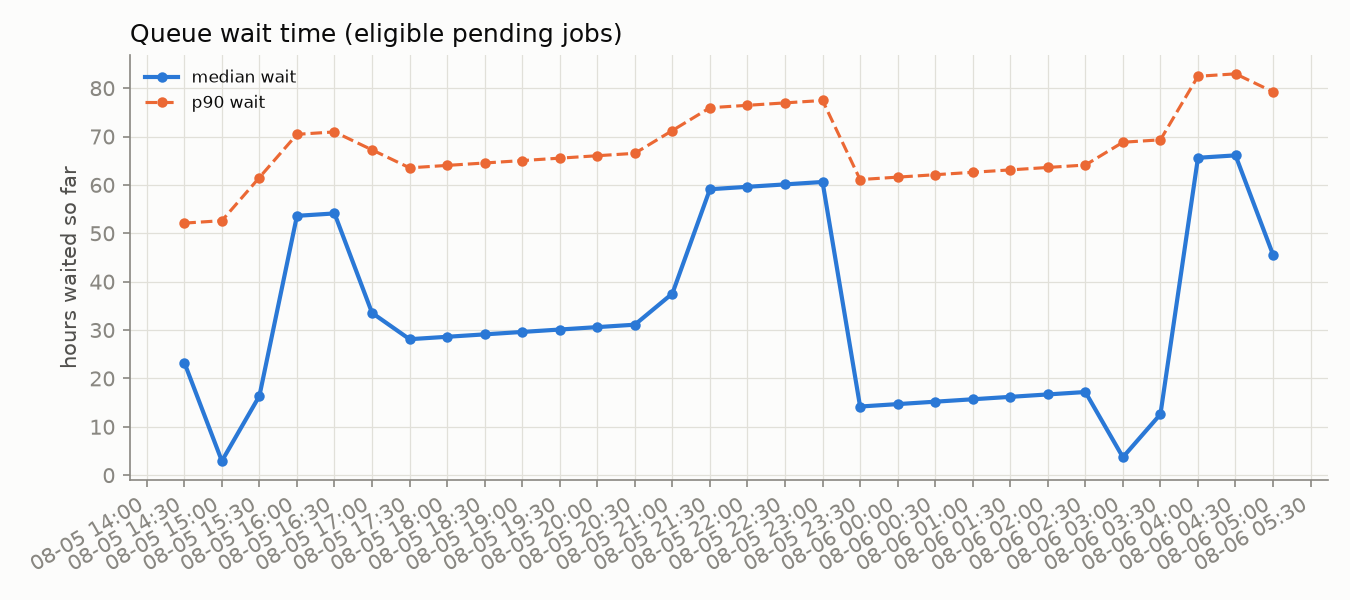
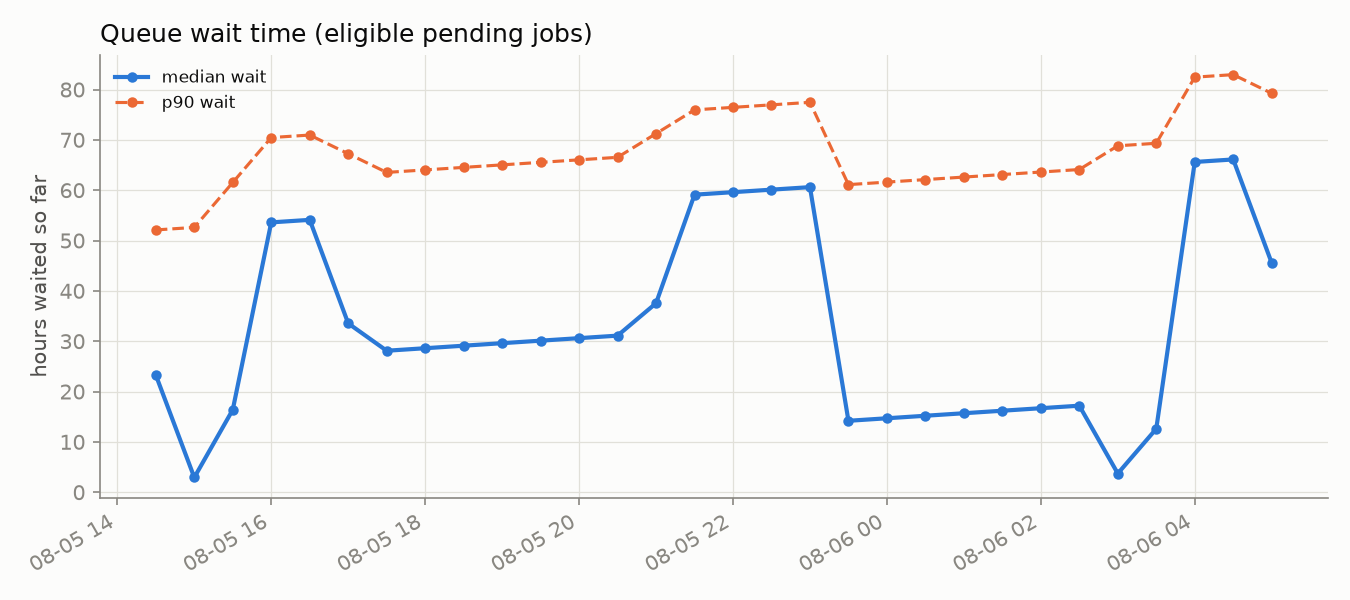
Expand recommendations, drop the fixed 30-min tick locator on queue_wait
Recommendations now explain the mechanism and give a data-grounded
escalation candidate instead of one-line pointers to the commands.
queue_wait.png used an explicit 30-min MinuteLocator that packed a tick
per sample; drop it so matplotlib's default date locator picks spacing
the same way the other three charts already do.

diff --git a/render_readme.py b/render_readme.py
@@ -17,7 +17,6 @@ from pathlib import Path
 import matplotlib
 matplotlib.use("Agg")
 import matplotlib.pyplot as plt
-import matplotlib.dates as mdates
 import matplotlib.patches as mpatches
 
 DIR = Path(__file__).resolve().parent
@@ -345,6 +344,16 @@ def main():
         })
     table_rows.sort(key=lambda r: (-r["gpu_hours"]))
 
+    # ---- worst-case escalation candidate: biggest allocation sitting on the
+    # lowest utilization, gated on a minimum GPU-hour floor so a user with a
+    # couple of idle hours doesn't outrank someone hoarding hundreds. ----
+    ESCALATION_MIN_GPU_HOURS = 50.0
+    escalation_candidates = [r for r in table_rows
+                              if r["util_pct"] is not None
+                              and r["gpu_hours"] >= ESCALATION_MIN_GPU_HOURS]
+    worst_offender = (min(escalation_candidates, key=lambda r: r["util_pct"])
+                       if escalation_candidates else None)
+
     # ================= chart 1 & 2: CPU / GPU allocation over time, by lab -
     #                    standardized: same title pattern, same "GPUs"/"CPUs"
     #                    axis convention, same cluster-capacity dashed
@@ -426,8 +435,6 @@ def main():
         ax.set_xlim(lo - pad, hi + pad)
         ax.set_title("Queue wait time (eligible pending jobs)", loc="left")
         ax.set_ylabel("hours waited so far")
-        ax.xaxis.set_major_locator(mdates.MinuteLocator(byminute=[0, 30], tz=x4[0].tzinfo))
-        ax.xaxis.set_major_formatter(mdates.DateFormatter("%m-%d %H:%M", tz=x4[0].tzinfo))
         fig.autofmt_xdate()
         ax.legend(frameon=False, fontsize=8)
         fig.tight_layout()
@@ -575,14 +582,52 @@ def main():
 
     lines.append("## Recommendations")
     lines.append("")
-    lines.append("1. **Weight GPU usage in fairshare:** "
+    lines.append("1. **Weight GPU usage in fairshare.** `TRESBillingWeights` and "
+                 "`PriorityWeightTRES` are both unset right now, so Slurm's fairshare "
+                 "score only sees CPU-seconds - a job holding 4 idle L40S GPUs costs "
+                 "nothing in priority as long as it isn't also holding CPUs. That's the "
+                 "exact failure mode the scatter above is built to catch (upper-left: low "
+                 "CPU usage, high GPU usage). Fix: "
                  "`scontrol update partition=main TRESBillingWeights=CPU=1.0,GRES/gpu=<weight>` "
-                 "(or set `PriorityWeightTRES`), then restart `slurmctld`. Weight value is a "
-                 "policy call.")
+                 "(or set `PriorityWeightTRES` cluster-wide), then `scontrol reconfigure` - "
+                 "a full `slurmctld` restart also works but drops in-flight priority state. "
+                 "A reasonable starting point for `<weight>` is the CPUs-per-GPU ratio on a "
+                 "GPU node (128 CPUs / 4 GPUs = 32), so one GPU costs as much fairshare as "
+                 f"the CPU share it displaces; tune from there against next week's headline "
+                 f"numbers ({pct_gpu_alloc:.1f}% allocated, {pct_util_when_alloc:.1f}% "
+                 "utilized when allocated, as of this snapshot). The weight value itself is "
+                 "a policy call - loop in whoever owns cluster allocation policy before "
+                 "changing it.")
     lines.append("")
-    lines.append("2. **Escalate on sustained low utilization** (see table and scatter "
-                 "above): reminder, then a fairshare/QOS penalty. Needs a threshold and "
-                 "grace period decided first.")
+    esc_line = ("2. **Escalate on sustained low utilization** (see table and scatter above). ")
+    if worst_offender:
+        esc_line += (
+            f"Right now the clearest candidate is `{worst_offender['user']}` in "
+            f"`{worst_offender['lab']}`: {worst_offender['gpu_hours']:.1f} GPU-hours "
+            f"allocated at {worst_offender['util_pct']:.0f}% average utilization, i.e. "
+            f"roughly {worst_offender['gpu_hours'] * (1 - worst_offender['util_pct'] / 100):.0f} "
+            "GPU-hours that sat idle instead of going to someone in the queue. ")
+    esc_line += (
+        "Turning that into an automated escalation needs two decisions made up front: a "
+        "utilization threshold (something like under 20% mean utilization over at least "
+        f"{ESCALATION_MIN_GPU_HOURS:.0f} allocated GPU-hours is a defensible starting bar - "
+        "loose enough to skip short debugging runs, tight enough to catch parked "
+        "allocations) and a grace period (how many consecutive low-utilization snapshots "
+        "before it counts as \"sustained\" rather than a momentary lull between batches). "
+        "Once those are set, the mechanism can be either soft (a bot that reads "
+        "`data/gpu_samples.jsonl` and reminds the user/lab by email or Slack) or hard (a "
+        "Slurm-side QOS penalty, e.g. `sacctmgr modify qos <qos> set Priority-=<n>`, applied "
+        "after N consecutive offending snapshots). Neither exists yet - today the table and "
+        "scatter above are a read-only signal, not an enforced policy.")
+    lines.append(esc_line)
+    lines.append("")
+    lines.append("3. **Don't lock in a weight or threshold off one snapshot.** This report "
+                 f"has {len(distinct_ts)} queue snapshots so far, and the CPU-vs-GPU scatter "
+                 "decays usage on a 7-day fairshare half-life - it needs roughly that long "
+                 "of continuous data before it reflects steady-state behavior rather than "
+                 "whoever happened to be running jobs this week. Treat recommendation 1's "
+                 "weight and recommendation 2's threshold as drafts; revisit both after a "
+                 "week or two of accumulated snapshots.")
     lines.append("")
 
     (DIR / "README.md").write_text("\n".join(lines) + "\n")

diff --git a/README.md b/README.md
@@ -2,7 +2,7 @@
 
 Automated GPU/CPU/queue utilization tracker for `hopper.cluster`, updated every 30 minutes by cron. Usernames are anonymized to a stable per-account pseudonym; lab names are real.
 
-Last updated: 2026-08-06T14:30:19-07:00
+Last updated: 2026-08-06T14:35:18-07:00
 Samples: 49 queue snapshots, 49 GPU snapshots
 
 ## Resources
@@ -28,10 +28,10 @@ Samples: 49 queue snapshots, 49 GPU snapshots
 <tr style='background-color:#fbebf1'><td>zhuang-lab</td><td>user-0db9ced0</td><td align='right'>377.0</td><td align='right'>377.0</td><td align='right'>49%</td></tr>
 <tr style='background-color:#d8efef'><td>witter-lab</td><td>user-554c620c</td><td align='right'>108.5</td><td align='right'>221.5</td><td align='right'>68%</td></tr>
 <tr style='background-color:#fcf0d8'><td>nerenberg-lab</td><td>user-6bb5f332</td><td align='right'>40.0</td><td align='right'>200.0</td><td align='right'>71%</td></tr>
-<tr style='background-color:#fce8e0'><td>ibarragarciapadilla-lab</td><td>user-eec7ffae</td><td align='right'>0.0</td><td align='right'>234.5</td><td align='right'>—</td></tr>
 <tr style='background-color:#fcf0d8'><td>nerenberg-lab</td><td>user-b12dc074</td><td align='right'>0.0</td><td align='right'>16.0</td><td align='right'>—</td></tr>
-<tr style='background-color:#dfeaf8'><td>enkavi-lab</td><td>user-c21bdaa4</td><td align='right'>0.0</td><td align='right'>20.0</td><td align='right'>—</td></tr>
+<tr style='background-color:#fce8e0'><td>ibarragarciapadilla-lab</td><td>user-eec7ffae</td><td align='right'>0.0</td><td align='right'>234.5</td><td align='right'>—</td></tr>
 <tr style='background-color:#fce8e0'><td>ibarragarciapadilla-lab</td><td>user-3cfc41a3</td><td align='right'>0.0</td><td align='right'>2625.0</td><td align='right'>—</td></tr>
+<tr style='background-color:#dfeaf8'><td>enkavi-lab</td><td>user-c21bdaa4</td><td align='right'>0.0</td><td align='right'>20.0</td><td align='right'>—</td></tr>
 </table>
 
 ## Usage over time
@@ -60,7 +60,9 @@ One point per user per snapshot (n=273), usage decayed on Slurm's ~7-day fairsha
 
 ## Recommendations
 
-1. **Weight GPU usage in fairshare:** `scontrol update partition=main TRESBillingWeights=CPU=1.0,GRES/gpu=<weight>` (or set `PriorityWeightTRES`), then restart `slurmctld`. Weight value is a policy call.
+1. **Weight GPU usage in fairshare.** `TRESBillingWeights` and `PriorityWeightTRES` are both unset right now, so Slurm's fairshare score only sees CPU-seconds - a job holding 4 idle L40S GPUs costs nothing in priority as long as it isn't also holding CPUs. That's the exact failure mode the scatter above is built to catch (upper-left: low CPU usage, high GPU usage). Fix: `scontrol update partition=main TRESBillingWeights=CPU=1.0,GRES/gpu=<weight>` (or set `PriorityWeightTRES` cluster-wide), then `scontrol reconfigure` - a full `slurmctld` restart also works but drops in-flight priority state. A reasonable starting point for `<weight>` is the CPUs-per-GPU ratio on a GPU node (128 CPUs / 4 GPUs = 32), so one GPU costs as much fairshare as the CPU share it displaces; tune from there against next week's headline numbers (67.6% allocated, 41.1% utilized when allocated, as of this snapshot). The weight value itself is a policy call - loop in whoever owns cluster allocation policy before changing it.
 
-2. **Escalate on sustained low utilization** (see table and scatter above): reminder, then a fairshare/QOS penalty. Needs a threshold and grace period decided first.
+2. **Escalate on sustained low utilization** (see table and scatter above). Right now the clearest candidate is `user-d58f5a15` in `witter-lab`: 467.5 GPU-hours allocated at 9% average utilization, i.e. roughly 424 GPU-hours that sat idle instead of going to someone in the queue. Turning that into an automated escalation needs two decisions made up front: a utilization threshold (something like under 20% mean utilization over at least 50 allocated GPU-hours is a defensible starting bar - loose enough to skip short debugging runs, tight enough to catch parked allocations) and a grace period (how many consecutive low-utilization snapshots before it counts as "sustained" rather than a momentary lull between batches). Once those are set, the mechanism can be either soft (a bot that reads `data/gpu_samples.jsonl` and reminds the user/lab by email or Slack) or hard (a Slurm-side QOS penalty, e.g. `sacctmgr modify qos <qos> set Priority-=<n>`, applied after N consecutive offending snapshots). Neither exists yet - today the table and scatter above are a read-only signal, not an enforced policy.
+
+3. **Don't lock in a weight or threshold off one snapshot.** This report has 49 queue snapshots so far, and the CPU-vs-GPU scatter decays usage on a 7-day fairshare half-life - it needs roughly that long of continuous data before it reflects steady-state behavior rather than whoever happened to be running jobs this week. Treat recommendation 1's weight and recommendation 2's threshold as drafts; revisit both after a week or two of accumulated snapshots.
 
